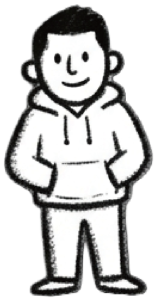
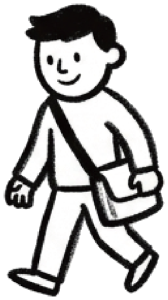
feat(daegu-map): 추천인 아바타를 새 24컷으로 교체
캐릭터24.png(3000x3000, 6열 4행)에서 잘라 기존 20컷을 대체한다.
선 굵기가 더 고르고 앉은 자세(벤치 2종)와 쇼핑백 든 인물이 있어
목록으로 쌓았을 때 단조롭지 않다.

이전 파일과 처리 방식이 달랐다.

- 캐릭터20 은 알파 0 배경에 RGB 가 검정 → 알파로 판단
- 캐릭터24 는 알파 없는 RGB 에 흰 배경 → 밝기로 판단

흰 배경을 단순 임계값으로 지우면 옷과 얼굴의 흰 채움까지 뚫린다.
가장자리에서 시작하는 flood fill 로 바깥에서 닿는 흰색만 배경으로 봤다.

그림이 칸 경계를 넘나들어 옆 칸 조각이 딸려 들어왔다. 남은 픽셀을
덩어리로 묶어 가장 큰 덩어리의 6% 미만을 버려 21개를 걸러냈다.

세 함정을 README 에 남겼다. 박사장은 벤치에서 책 읽는 p12 로 옮겼다.

diff --git a/daegu-map/img/art/people/README.md b/daegu-map/img/art/people/README.md
@@ -1,37 +1,47 @@
-# 추천인 아바타 20컷
+# 추천인 아바타 24컷
 
-`캐릭터20.png`(3000×3000, 5열 4행)에서 잘라냈다. 배경 투명, 긴 변 300px.
+`~/Documents/캐릭터24.png`(3000×3000, 6열 4행)에서 잘라냈다. 배경 투명, 긴 변 300px.
 
 `places.json` 의 추천인 `art` 필드에 `people/p01.png` 형태로 적는다.
 
 | 파일 | 인물 | 어울리는 성격 |
 |---|---|---|
-| `p01` | 배낭 메고 걷는 사람 | 여행갈피 원본과 같은 인물. 많이 걸어 다니는 사람 |
-| `p02` | 안경 쓰고 책 읽는 사람 | 조용한 곳, 독립서점, 오래 앉아 있는 사람 |
-| `p03` | 우산 든 사람 | 비 오는 날에도 나가는 사람 |
-| `p04` | 후드티에 주머니 손 | 편한 동네, 꾸미지 않는 취향 |
-| `p05` | 자전거 탄 사람 | 자전거로 도는 사람 |
-| `p06` | 도끼 든 체크셔츠 | 공방, 만드는 사람 |
-| `p07` | 배낭 메고 새와 함께 | 산책, 자연, 느린 걸음 |
-| `p08` | 모자 쓰고 카메라 | 사진 찍는 사람 |
-| `p09` | 기타 멘 사람 | 음악, 공연 |
-| `p10` | 손 흔드는 사람 | 사람 좋아하는 사람 |
-| `p11` | 커피 든 곱슬머리 | 카페 도장깨기 |
-| `p12` | 목도리에 크로스백 | 겨울, 오래 걷기 |
-| `p13` | 치마 입고 걷는 사람 | 가볍게 도는 사람 |
-| `p14` | 장바구니 든 사람 | 소품샵, 장 보기 |
-| `p15` | 요가 자세 | 조용함, 쉼 |
-| `p16` | 땋은 머리 | — |
-| `p17` | 팔레트와 붓 | 그림, 전시 |
-| `p18` | 코트 입은 사람 | 단정한 취향 |
-| `p19` | 달리는 사람 | 부지런히 많이 도는 사람 |
-| `p20` | 두 팔 들고 뛰는 사람 | 신나는 사람, 이벤트 손님 |
+| `p01` | 배낭 메고 걷기 | 여행갈피 원본과 같은 인물. 많이 걸어 다니는 사람 |
+| `p02` | 모자 쓰고 주머니에 손 | 편하게 다니는 사람, 동네 산책 |
+| `p03` | 앉아서 폰 보기 | 한자리에 오래 머무는 사람 |
+| `p04` | 크로스백에 서류 들고 걷기 | 부지런히 다니는 사람 |
+| `p05` | 크로스백 메고 걷기 | 가볍게 도는 사람 |
+| `p06` | 안경, 검은 바지 | 단정한 취향 |
+| `p07` | 안경 쓰고 서 있기 | 차분한 사람 |
+| `p08` | 달리기 | 많이 도는 사람, 부지런한 사람 |
+| `p09` | 후드티, 손 흔들기 | 사람 좋아하는 사람 |
+| `p10` | 쇼핑백 두 개 | 소품샵 도는 사람 |
+| `p11` | 자켓 입고 서 있기 | — |
+| `p12` | 벤치에서 책 읽기 | **조용한 곳, 독립서점, 오래 앉아 있는 사람** |
+| `p13` | 크로스백 메고 걷기 | 가볍게 도는 사람 |
+| `p14` | 머리 묶고 서 있기 | — |
+| `p15` | 앉아서 커피 들기 | 카페에서 오래 있는 사람 |
+| `p16` | 배낭 메고 걷기 | 걸어서 도는 사람 |
+| `p17` | 안경 쓰고 서 있기 | 차분한 사람 |
+| `p18` | 걸터앉기 | 쉬어가는 사람 |
+| `p19` | 안경 쓰고 서 있기 | — |
+| `p20` | 달리기 | 활동적인 사람 |
+| `p21` | 폰 보며 서 있기 | 기록하는 사람 |
+| `p22` | 쇼핑백 두 개 | 소품샵 도는 사람 |
+| `p23` | 포니테일, 자켓 | — |
+| `p24` | 벤치에서 폰 보기 | 앉아서 쉬는 사람, 이벤트 손님 |
 
-## 다시 만들 때
+## 다시 만들 때 — 밟았던 함정 세 가지
 
-원본이 5열 4행 격자이고 배경이 알파 0 이다. 잘라내기는 밝기가 아니라
-**알파 채널**로 판단해야 한다 — 배경 RGB 가 0(검정)이라 밝기로 보면
-전부 잉크로 잡힌다.
+**1. 배경 판단 기준이 파일마다 다르다.**
+`캐릭터24.png` 는 알파 없는 RGB 라 흰 배경을 밝기로 잡는다. 그 전 `캐릭터20.png` 는
+배경이 알파 0 에 RGB 가 0(검정)이라, 밝기로 보면 배경이 가장 어두운 영역이 된다.
+파일을 받으면 컬러타입부터 확인할 것.
 
-인물 안쪽은 흰색으로 채워져 있으므로 색을 잉크색으로 덮으면 안 된다.
-덮으면 선화가 아니라 검은 덩어리가 된다.
+**2. 인물 안쪽 흰 채움과 바깥 배경을 구분해야 한다.**
+단순히 "흰색이면 투명"으로 처리하면 옷과 얼굴까지 뚫린다.
+가장자리에서 시작하는 채우기(flood fill)로 **바깥에서 닿는 흰색만** 배경으로 본다.
+
+**3. 그림이 칸 경계를 넘나든다.**
+격자대로만 자르면 옆 칸 인물의 팔·가방 조각이 딸려 들어와 여백이 어긋난다.
+남은 픽셀을 덩어리로 묶어 **가장 큰 덩어리의 6% 미만은 버린다**(이번에 21개 걸러냄).
